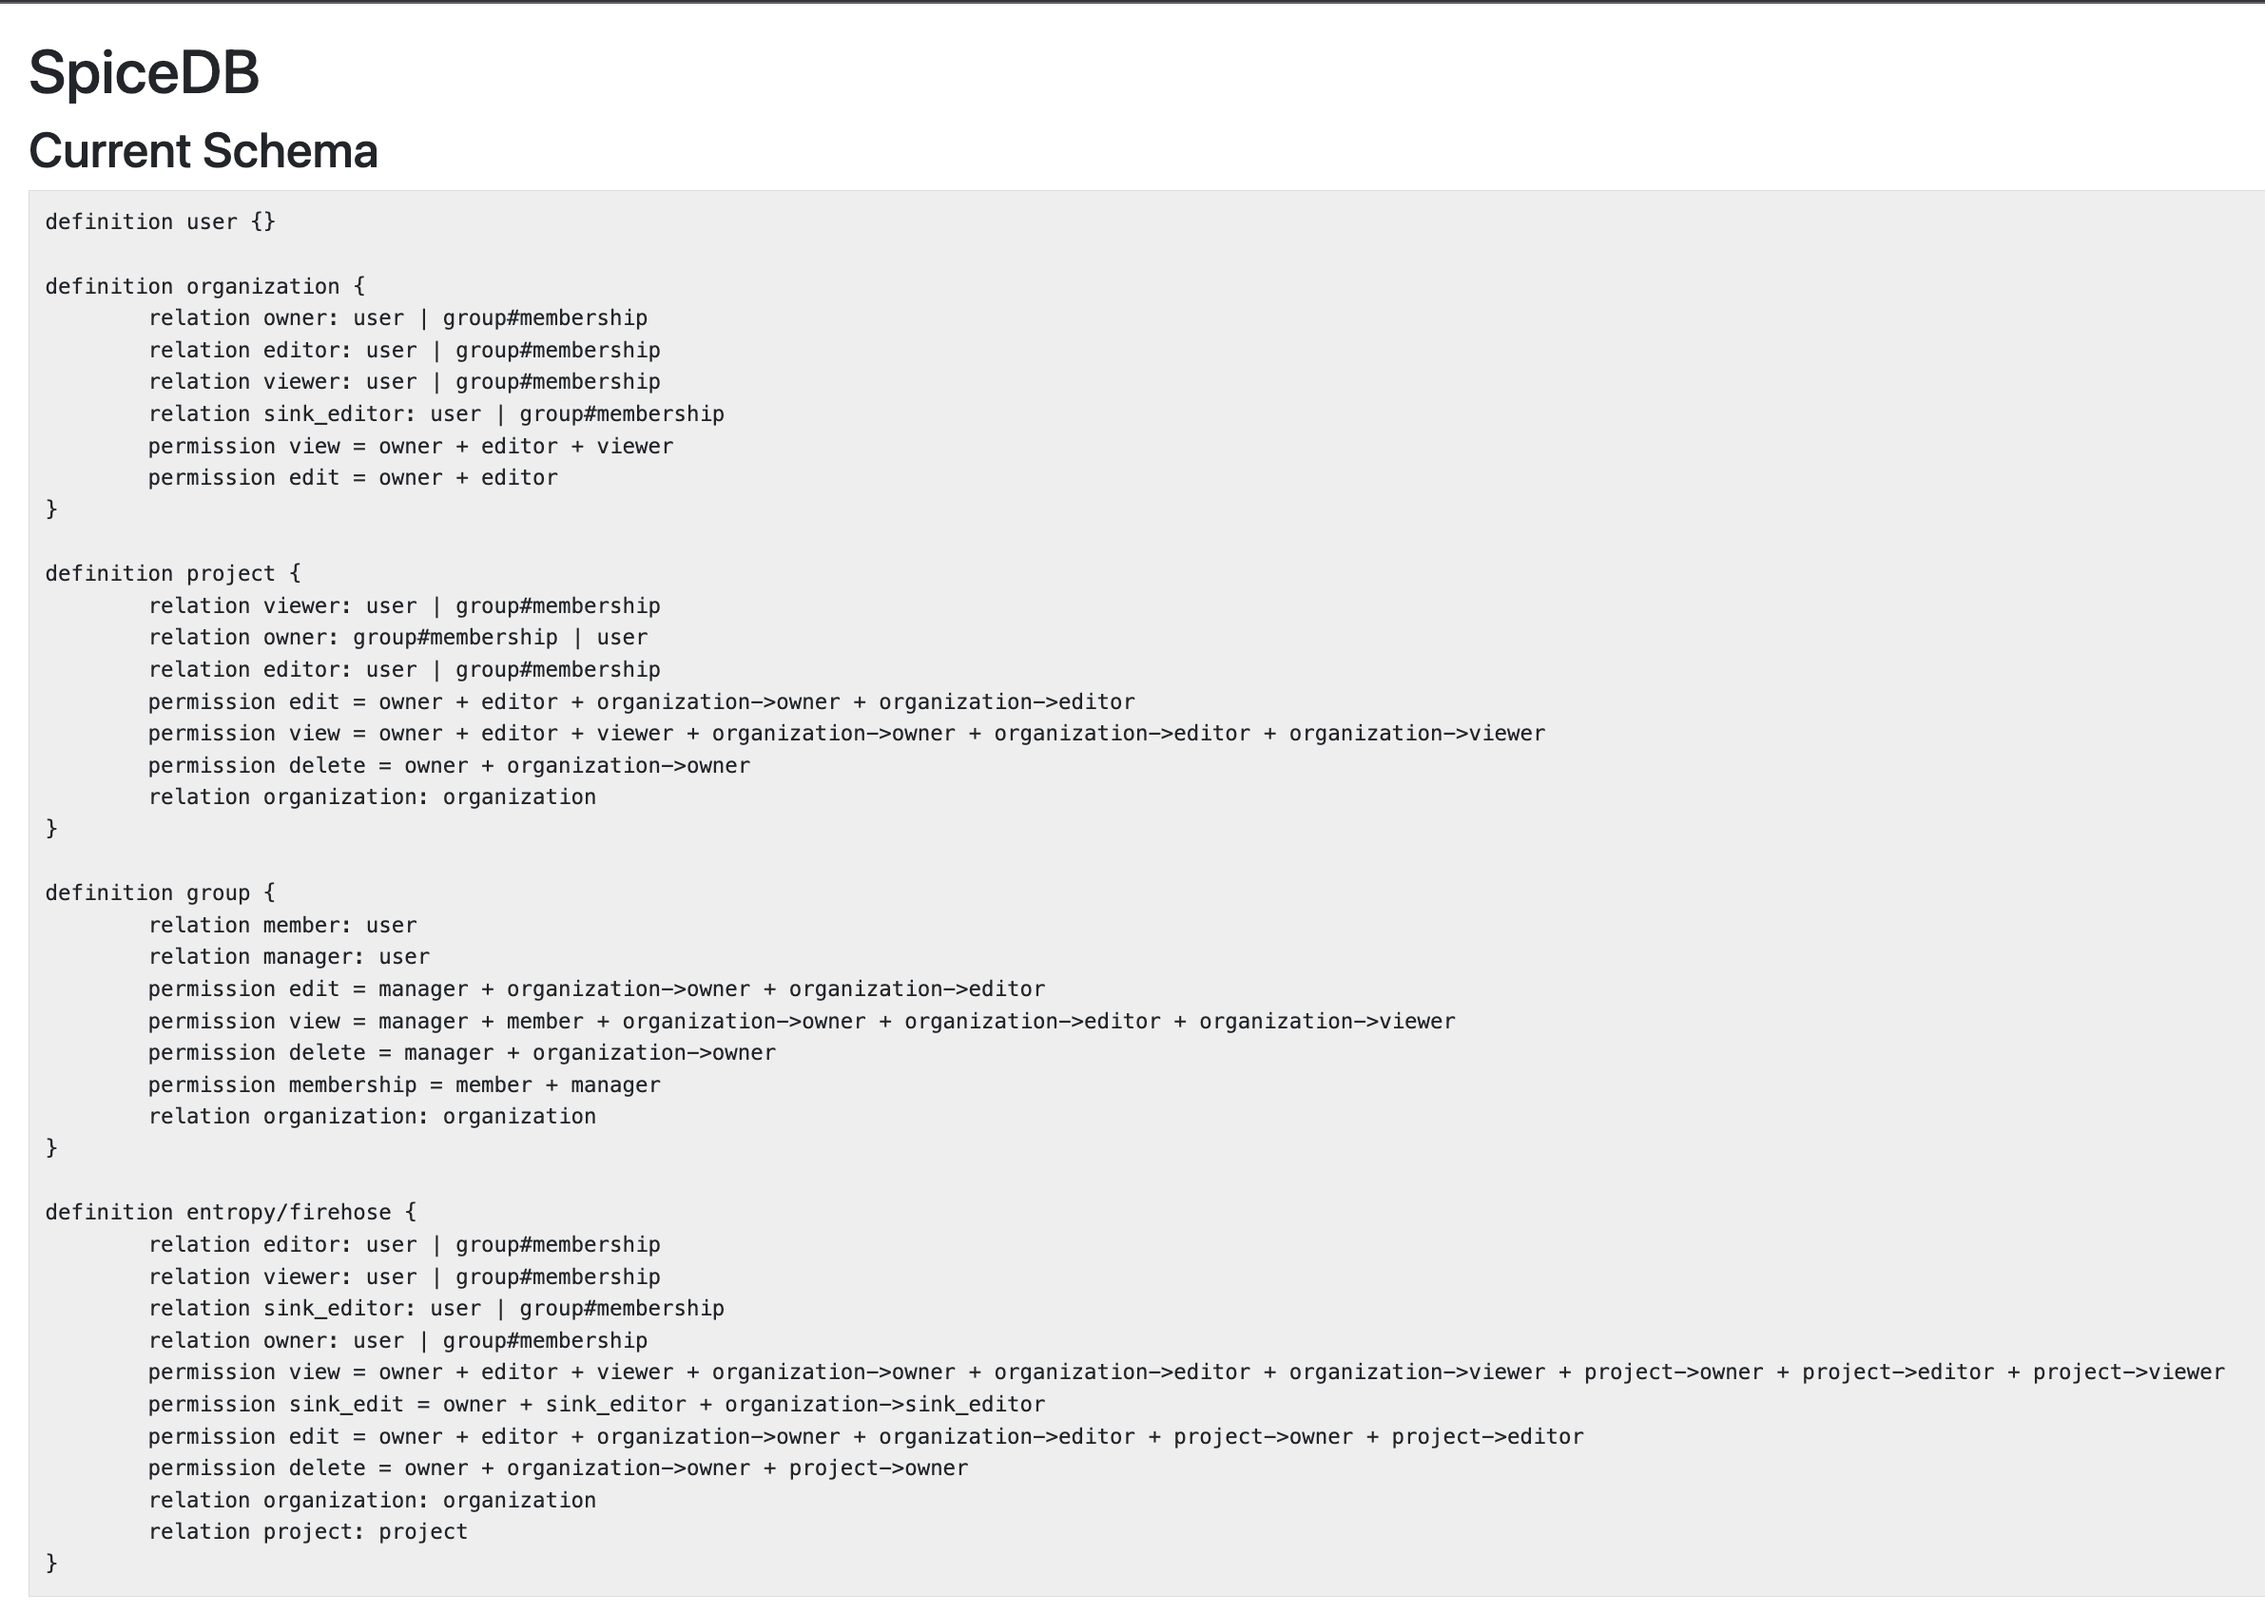
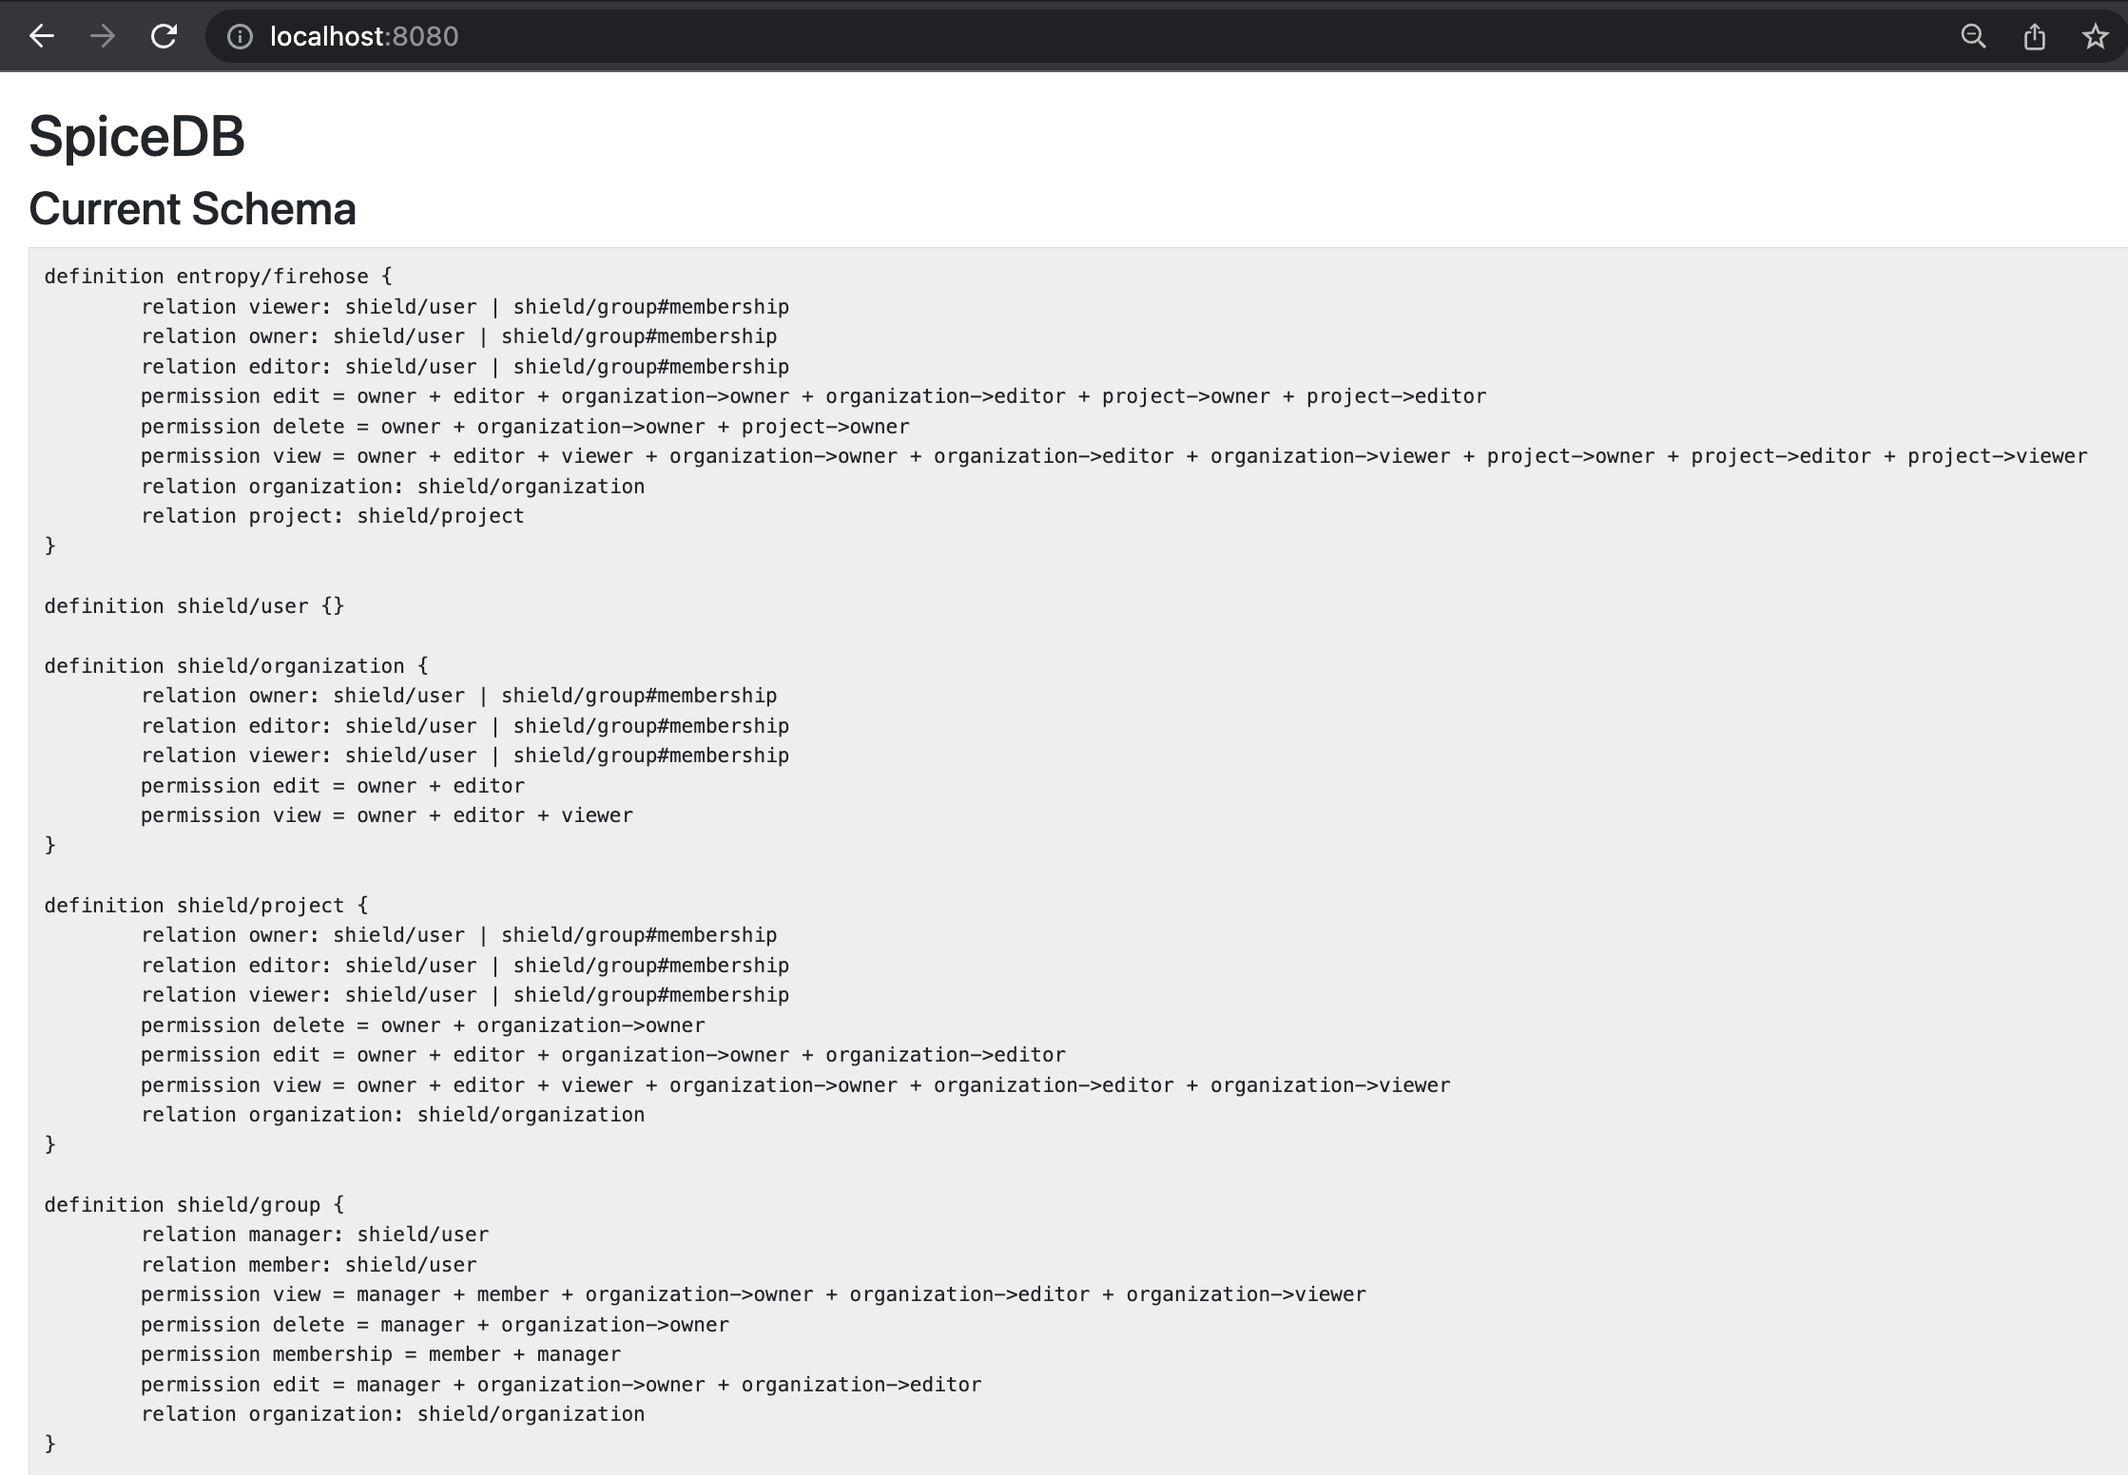
docs: fix new schema changes

diff --git a/docs/docs/tour/setup-server.md b/docs/docs/tour/setup-server.md
@@ -65,12 +65,12 @@ entropy:
       roles:
         - name: viewer
           principals:
-            - user
-            - group
+            - shield/user
+            - shield/group
         - name: sink_editor
           principals:
-            - user
-            - group
+            - shield/user
+            - shield/group
       permissions:
         - name: view
           roles:
@@ -83,27 +83,27 @@ entropy:
             - sink_editor
             - organization/sink_editor
 
-organization:
+shield/organization:
   type: system
   roles:
     - name: sink_editor
       principals:
-        - user
-        - group
+        - shield/user
+        - shield/group
     - name: database_editor
       principals:
-        - group
+        - shield/group
 
-project:
+shield/project:
   type: system
   roles:
     - name: viewer
       principals:
-        - user
-        - group
+        - shield/user
+        - shield/group
     - name: owner
       principals:
-        - group
+        - shield/group
 
 ```
 
@@ -150,7 +150,7 @@ rules:
                       source: request
                   relations:
                     - role: owner
-                      subject_principal: group
+                      subject_principal: shield/group
                       subject_id_attribute: group_attribute
           - name: update_firehose_status
             path: "/firehoses/{resource}/{action}"
